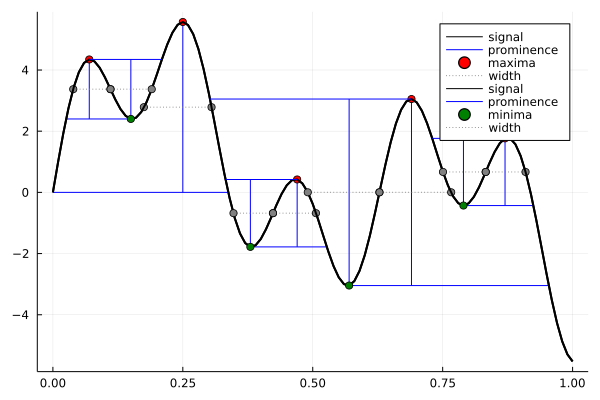
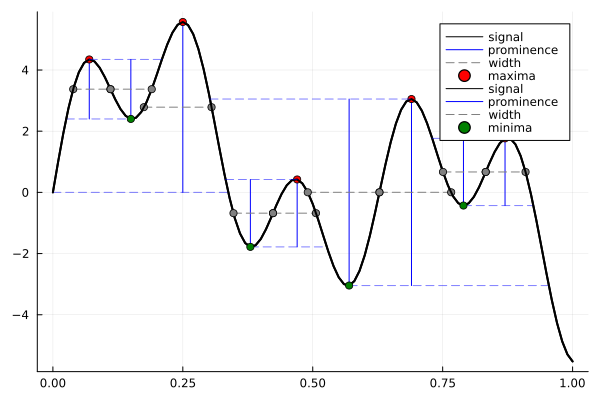
update peaksplot, plot-test, readme

diff --git a/README.md b/README.md
@@ -10,7 +10,7 @@
 
 Peaks.jl contains peak (local extrema) finding functions for vector data. Contributions welcome.
 
-[![signal-with-peaks-prominences-and-widths](docs/src/assets/images/peaks_prom_width.png)](#)
+[![signal-with-peaks-prominences-and-widths](docs/src/assets/images/maxima_prom_width.png)](#)
 
 ```julia
 julia> using Peaks
@@ -32,11 +32,11 @@ julia> pks, widths, leftedge, rightedge = peakwidths(pks, y, proms)
 7.663187146933097], [4.916043956211862, 18.50125024651451, 43.35170982447645, 63.83409366134414, 84.28425741824285],
 [12.084595468395447, 31.5266973673278, 51.61442547061563, 77.63968568254151, 91.94744456517594])
 
-julia> _, proms = peakproms!(pks, y; minprom=3)
-([26, 70], [5.5693856245725195, 6.0957723300230855])
+julia> _, proms = peakproms!(pks, y; minprom=1)
+([8, 26, 48, 70, 88], [1.9441651653930858, 5.5693856245725195, 2.203426259167901, 6.0957723300230855, 2.195991801053836])
 
 julia> using Plots
-julia> peaksplot(t, y, peaks=pks)  # see above plot for result
+julia> peaksplot(t, y, peaks=pks, prominences=true, widths=true)  # see above plot for result
 ```
 
 ## Features
